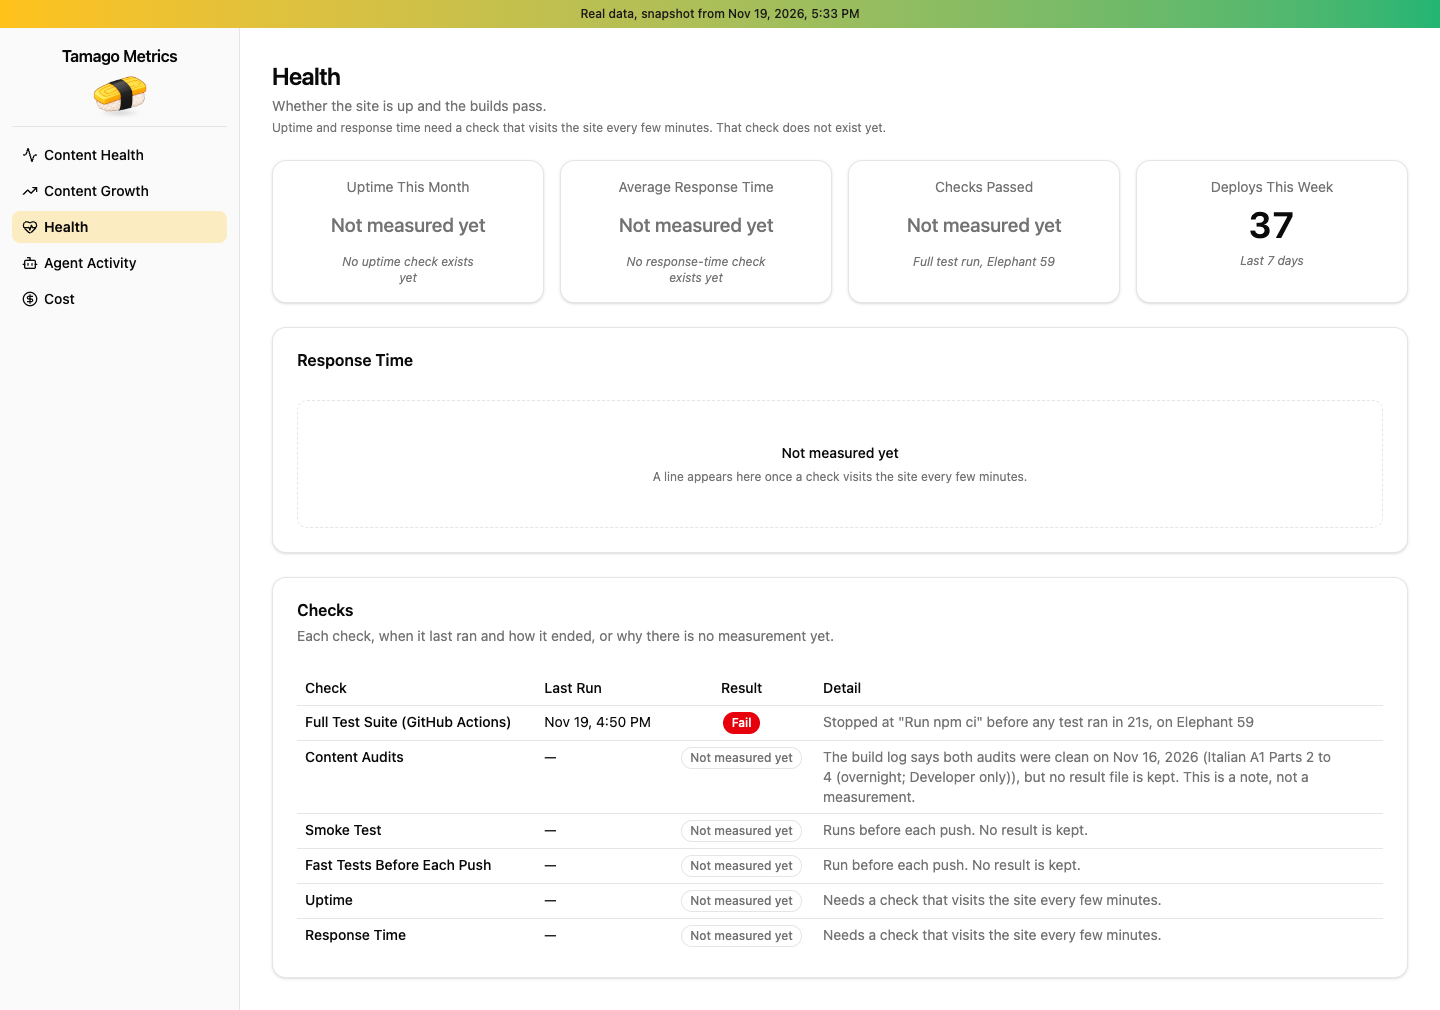
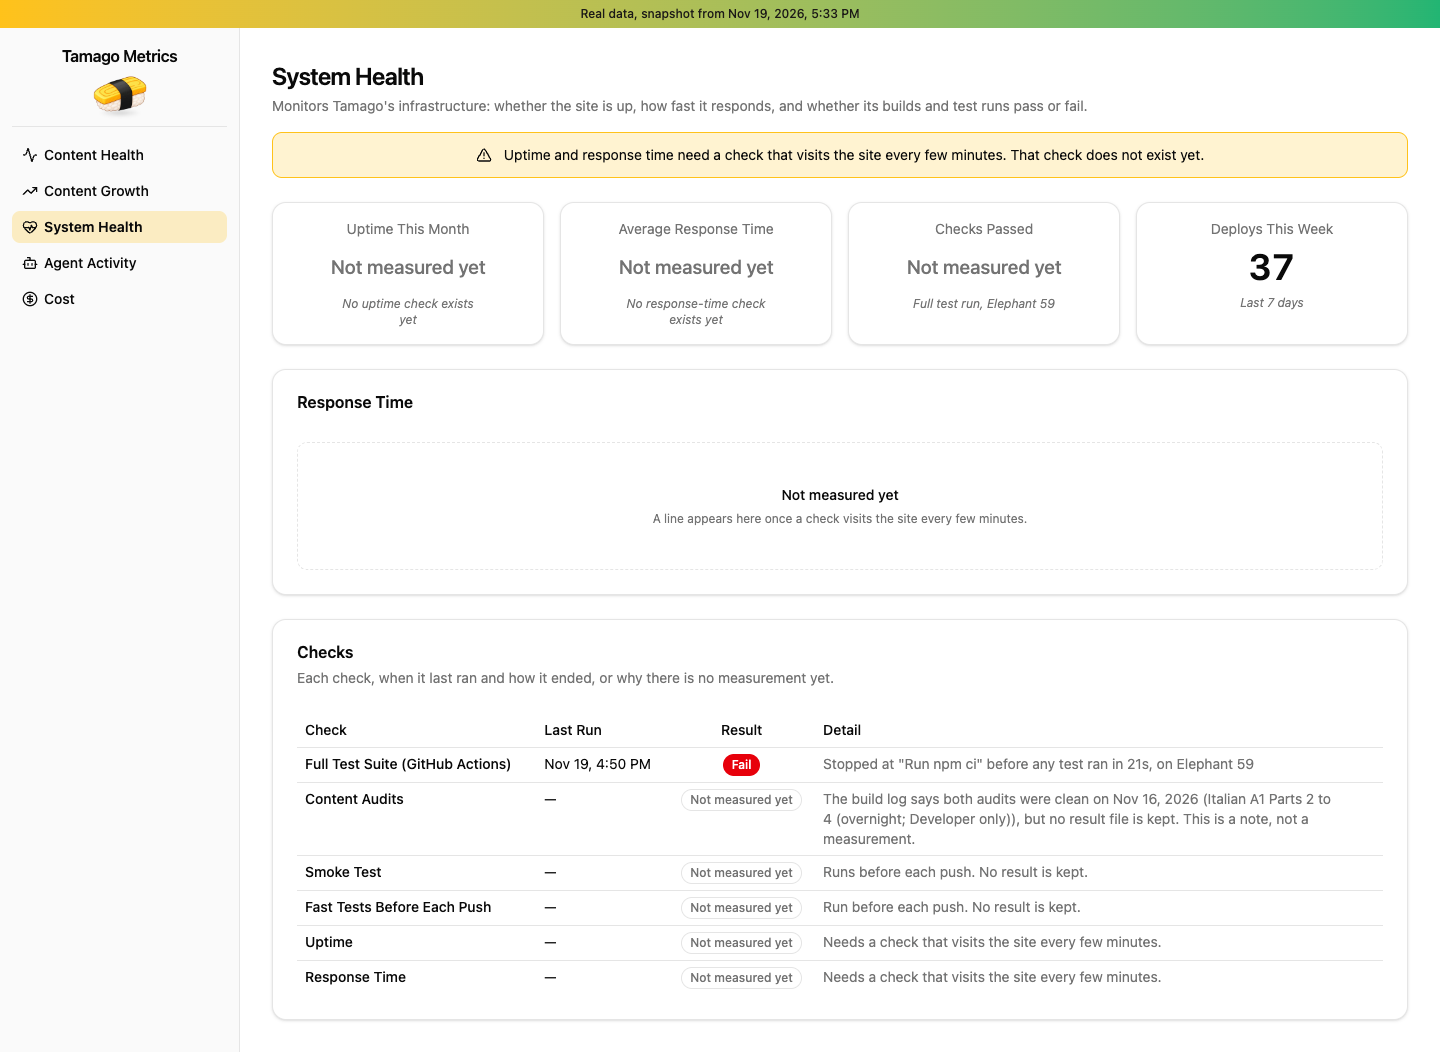
System Health: renamed from Health, wider description, missing-check notice as a yellow Alert (Alert added to COMPONENTS.md)

diff --git a/src/layout/PageFrame.tsx b/src/layout/PageFrame.tsx
@@ -11,6 +11,8 @@ interface PageFrameProps {
   sample?: boolean
   /** A short, smaller muted line under the description. */
   note?: ReactNode
+  /** A banner under the description, such as an `Alert` about a check that does not exist yet. */
+  notice?: ReactNode
   /** Something small on the right of the title row (desktop); at phone width it wraps below the title. */
   aside?: ReactNode
   /** The page's sections, usually `PageSection`s, stacked in order. */
@@ -18,7 +20,7 @@ interface PageFrameProps {
 }
 
 /** The frame every page shares: max width, padding, the header, then the sections in a stack. */
-export function PageFrame({ title, description, sample = false, note, aside, children }: PageFrameProps) {
+export function PageFrame({ title, description, sample = false, note, notice, aside, children }: PageFrameProps) {
   const heading = <h1 className="text-2xl font-semibold tracking-tight">{title}</h1>
 
   return (
@@ -37,6 +39,7 @@ export function PageFrame({ title, description, sample = false, note, aside, chi
         </div>
         <p className="text-sm text-muted-foreground">{description}</p>
         {note ? <p className="text-xs text-muted-foreground">{note}</p> : null}
+        {notice ? <div className="mt-3">{notice}</div> : null}
       </header>
 
       {children}
@@ -74,14 +77,15 @@ export function DashboardPage({
   title,
   description,
   note,
+  notice,
   aside,
   sample = false,
   stats,
   chart,
   table,
-}: DashboardPageProps & { title: string; description: string; note?: ReactNode; aside?: ReactNode; sample?: boolean }) {
+}: DashboardPageProps & { title: string; description: string; note?: ReactNode; notice?: ReactNode; aside?: ReactNode; sample?: boolean }) {
   return (
-    <PageFrame title={title} description={description} note={note} aside={aside} sample={sample}>
+    <PageFrame title={title} description={description} note={note} notice={notice} aside={aside} sample={sample}>
       <PageSection label="Key Numbers">{stats}</PageSection>
       <PageSection label="Chart">{chart}</PageSection>
       <PageSection label="Table">{table}</PageSection>

diff --git a/src/components/ui/alert.tsx b/src/components/ui/alert.tsx
@@ -1,0 +1,65 @@
+import * as React from "react"
+import { cva, type VariantProps } from "class-variance-authority"
+import { cn } from "cn"
+
+const alertVariants = cva(
+  "relative grid w-full grid-cols-[0_1fr] items-start gap-y-0.5 rounded-lg border px-4 py-3 text-sm has-[>svg]:grid-cols-[calc(var(--spacing)*4)_1fr] has-[>svg]:gap-x-3 [&>svg]:size-4 [&>svg]:translate-y-0.5 [&>svg]:text-current",
+  {
+    variants: {
+      variant: {
+        default: "bg-card text-card-foreground",
+        destructive:
+          "bg-card text-destructive *:data-[slot=alert-description]:text-destructive/90 [&>svg]:text-current",
+      },
+    },
+    defaultVariants: {
+      variant: "default",
+    },
+  }
+)
+
+function Alert({
+  className,
+  variant,
+  ...props
+}: React.ComponentProps<"div"> & VariantProps<typeof alertVariants>) {
+  return (
+    <div
+      data-slot="alert"
+      role="alert"
+      className={cn(alertVariants({ variant }), className)}
+      {...props}
+    />
+  )
+}
+
+function AlertTitle({ className, ...props }: React.ComponentProps<"div">) {
+  return (
+    <div
+      data-slot="alert-title"
+      className={cn(
+        "col-start-2 line-clamp-1 min-h-4 font-medium tracking-tight",
+        className
+      )}
+      {...props}
+    />
+  )
+}
+
+function AlertDescription({
+  className,
+  ...props
+}: React.ComponentProps<"div">) {
+  return (
+    <div
+      data-slot="alert-description"
+      className={cn(
+        "col-start-2 grid justify-items-start gap-1 text-sm text-muted-foreground [&_p]:leading-relaxed",
+        className
+      )}
+      {...props}
+    />
+  )
+}
+
+export { Alert, AlertTitle, AlertDescription }

diff --git a/src/pages/HealthPage.tsx b/src/pages/HealthPage.tsx
@@ -1,12 +1,22 @@
+import { TriangleAlert } from 'lucide-react'
+
+import { Alert, AlertDescription } from '@/components/ui/alert'
 import { DashboardPage, type DashboardPageProps } from '@/layout/PageFrame'
 
-/** The Health page (real data, no badge): header, then stats, chart, table. */
+/** The System Health page (real data, no badge): header with the missing-check banner, then stats, chart, table. */
 export function HealthPage(props: DashboardPageProps) {
   return (
     <DashboardPage
-      title="Health"
-      description="Whether the site is up and the builds pass."
-      note="Uptime and response time need a check that visits the site every few minutes. That check does not exist yet."
+      title="System Health"
+      description="Monitors Tamago's infrastructure: whether the site is up, how fast it responds, and whether its builds and test runs pass or fail."
+      notice={
+        <Alert className="flex items-center justify-center gap-2 border-tamago-yellow bg-tamago-yellow/20 text-center [&>svg]:translate-y-0">
+          <TriangleAlert aria-hidden="true" className="size-4 shrink-0 text-foreground" />
+          <AlertDescription className="text-foreground">
+            Uptime and response time need a check that visits the site every few minutes. That check does not exist yet.
+          </AlertDescription>
+        </Alert>
+      }
       {...props}
     />
   )

diff --git a/src/layout/nav.ts b/src/layout/nav.ts
@@ -9,7 +9,7 @@ export type PageId = 'content-health' | 'growth' | 'health' | 'agent-activity' |
 export const NAV_ITEMS: { id: PageId; label: string; icon: LucideIcon; real: boolean }[] = [
   { id: 'content-health', label: 'Content Health', icon: Activity, real: true },
   { id: 'growth', label: 'Content Growth', icon: TrendingUp, real: true },
-  { id: 'health', label: 'Health', icon: HeartPulse, real: true },
+  { id: 'health', label: 'System Health', icon: HeartPulse, real: true },
   { id: 'agent-activity', label: 'Agent Activity', icon: Bot, real: true },
   { id: 'cost', label: 'Cost', icon: CircleDollarSign, real: false },
 ]

diff --git a/src/App.tsx b/src/App.tsx
@@ -22,7 +22,7 @@ import { ReviewsAppliedTable } from '@/tables/ReviewsAppliedTable'
 import { SentencesTable } from '@/tables/SentencesTable'
 
 // Assembled by the coordinator: each section comes from the agent that owns it.
-// Content health, Health and Agent activity read the real snapshot (npm run snapshot); Growth and Cost are placeholders.
+// Content Health, Content Growth, System Health and Agent Activity read the real snapshot (npm run snapshot); Cost is a placeholder.
 const PAGES: Record<PageId, () => ReactNode> = {
   'content-health': () => (
     <ContentHealthPage

diff --git a/src/data/types.ts b/src/data/types.ts
@@ -1,4 +1,4 @@
-// Types for the dashboard's data. Content health, Health and Agent activity are REAL: they come from
+// Types for the dashboard's data. Content Health, Content Growth, System Health and Agent Activity are REAL: they come from
 // snapshot.json and snapshot-history.json (generated by `npm run snapshot`). Growth and Cost are
 // placeholder pages on mock JSON. Import everything from '@/data', never from a JSON file directly.
 //

diff --git a/src/data/tiles.ts b/src/data/tiles.ts
@@ -32,7 +32,7 @@ export interface RealTileValue {
 }
 
 /**
- * The real pages (Content health, Health, Agent activity). A card with no source gets the
+ * The real pages (Content Health, Content Growth, System Health, Agent Activity). A card with no source gets the
  * "Not measured yet" label as its value, `measured: false` and no trend.
  */
 export function buildRealTiles(page: TilePage, values: Record<string, RealTileValue>): StatTile[] {

diff --git a/COMPONENTS.md b/COMPONENTS.md
@@ -26,6 +26,7 @@ here. If you need something that isn't listed, stop and propose it (see `CLAUDE.
 | [Select](#select) | `select.tsx` | Choosing one option from a list |
 | [Separator](#separator) | `separator.tsx` | A thin dividing line |
 | [Tooltip](#tooltip) | `tooltip.tsx` | A short explanation on hover or focus |
+| [Alert](#alert) | `alert.tsx` | A banner that calls out something missing or wrong |
 | [Chart](#chart) | `chart.tsx` | The wrapper around every Recharts chart |
 
 ---
@@ -185,6 +186,22 @@ parent with a height. `decorative` (default `true`) hides it from screen readers
   </TooltipTrigger>
   <TooltipContent>A sentence written but not yet checked by a native speaker.</TooltipContent>
 </Tooltip>
+```
+
+## Alert
+
+**File:** `src/components/ui/alert.tsx`
+**Exports:** `Alert`, `AlertTitle`, `AlertDescription`
+**For:** a banner in the page that calls out something missing or wrong, such as a check that does not
+exist yet. Not for the red placeholder banner at the top, which belongs to the shell.
+**Main props:** `variant`: `"default"` | `"destructive"`. A warning uses the default variant with the
+Tamago yellow tokens (`border-tamago-yellow bg-tamago-yellow/20`). An icon from `lucide-react` goes first.
+
+```tsx
+<Alert className="border-tamago-yellow bg-tamago-yellow/20">
+  <TriangleAlert />
+  <AlertDescription>Uptime needs a check that does not exist yet.</AlertDescription>
+</Alert>
 ```
 
 ## Chart

diff --git a/README.md b/README.md
@@ -4,7 +4,7 @@ A trial dashboard built by several specialist agents from one component library.
 
 Live: https://dgbenner.github.io/tamago-dashboard/
 
-- **Content Health, Content Growth, Health and Agent Activity show real numbers**, taken as a snapshot from the public Tamago
+- **Content Health, Content Growth, System Health and Agent Activity show real numbers**, taken as a snapshot from the public Tamago
   repository and its GitHub records. Counts only. The date and time of the snapshot is at the top of each page.
 - **Cost is still a placeholder.** Every number on it is made up, and a red banner says so.
 - The published pages make no network calls. Everything they show is in `src/data/`.

diff --git a/scripts/checks/README.md b/scripts/checks/README.md
@@ -76,7 +76,7 @@ Opens each page from its own address, the way a bookmark would, scrolls to the b
 For each page it prints `DONE` or `NOT DONE` with the reasons. A page is done when:
 
 - the right page opens, and is the same after a refresh
-- a real page (Content Health, Content Growth, Health, Agent Activity) has the line "Real data, snapshot from …" with a date and
+- a real page (Content Health, Content Growth, System Health, Agent Activity) has the line "Real data, snapshot from …" with a date and
   time, and no "Sample Data" badge
 - a placeholder page (Cost) has the red warning banner with its exact text, and the "Sample Data" badge
 - the banner is still at the top after scrolling

diff --git a/CLAUDE.md b/CLAUDE.md
@@ -32,7 +32,7 @@ for `src/`.
 
 ## Real data and placeholders
 
-- Content Health, Content Growth, Health and Agent Activity show **real** numbers from `src/data/snapshot.json`,
+- Content Health, Content Growth, System Health and Agent Activity show **real** numbers from `src/data/snapshot.json`,
   written by `npm run snapshot` (`scripts/snapshot.mjs`, owned by the coordinator). Cost is a placeholder with mock data.
 - `snapshot.json` and `snapshot-history.json` are generated. Nobody edits them by hand, the `data` agent included.
 - **Never invent or estimate a number.** An empty value in the snapshot reaches the page as "Not measured yet"
